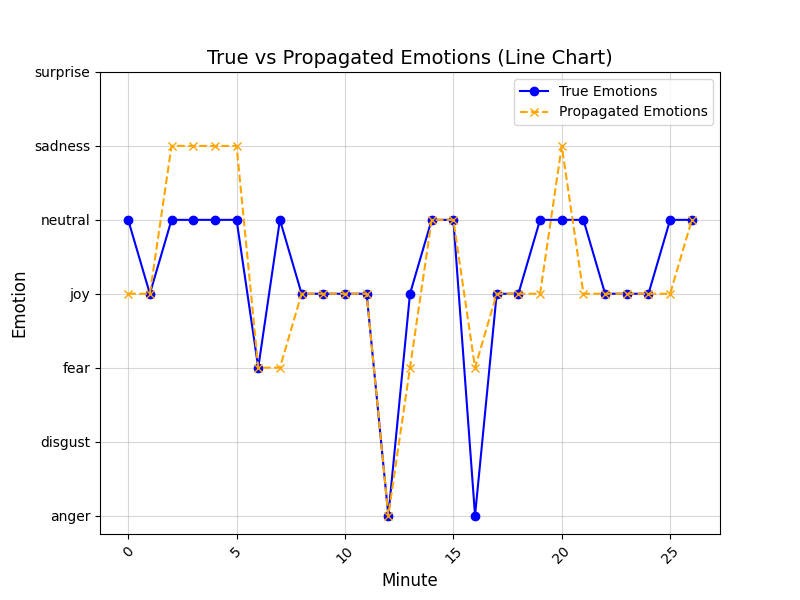
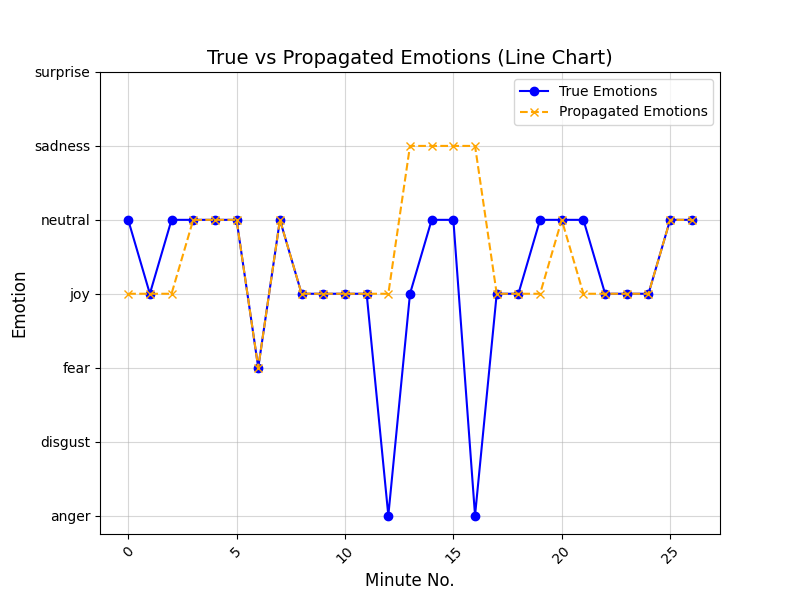
Fixed

diff --git a/propagation.py b/propagation.py
@@ -1,16 +1,20 @@
-from transformers import pipeline
+# from transformers import pipeline
 import os
+import numpy as np
+# import random
+import math
 os.environ['TF_ENABLE_ONEDNN_OPTS'] = '0'
-from transformers import pipeline
-import pickle
+# from transformers import pipeline
+# import pickle
 
 # with open('model.pkl', 'rb') as f:
 #     classifier = pickle.load(f)
-classifier = pipeline("sentiment-analysis", model="michellejieli/emotion_text_classifier")
+# if 
+# classifier = pipeline("sentiment-analysis", model="michellejieli/emotion_text_classifier")
 
 # from math import prod
 
-def predict(x,classifier=classifier):
+def predict(x,classifier=None):
     y_pred = []
     # c = 0
     for i in x:
@@ -24,7 +28,7 @@ def leaky_competing_accumulators(x, model, max_iters=10, decay=0.2, inhibition=0
 
 
     n = len(x)
-    predictions = predict(x)
+    predictions = predict(x,model)
     neutral_penalty = 0.955  # Scale down 'neutral' importance
     accumulators = [{emotion: 0.0 for emotion in emotions} for _ in range(n)]
 
@@ -98,16 +102,14 @@ def loopy_belief_propagation(
     """
     Robust Loopy Belief Propagation for emotion propagation with log-space calculations.
     """
-    import numpy as np
-    import random
-    import math
+
 
     emotions = ['anger', 'disgust', 'fear', 'joy', 'neutral', 'sadness', 'surprise']
 
     num_sentences = len(x_test)
 
     # Step 1: Initialize beliefs from the model
-    initial_predictions = predict(x_test)
+    initial_predictions = predict(x_test,model_predict)
 
 
     beliefs = []
@@ -115,7 +117,7 @@ def loopy_belief_propagation(
         # Use log probabilities to prevent underflow
         belief = {emotion: math.log(0.05) for emotion in emotions}
         belief[pred] = math.log(0.6)  # Higher log probability for predicted emotion
-        # belief['neutral'] = math.log(0.11)
+        belief['neutral'] = math.log(0.11)
 
         # Convert to probability space for final normalization
         beliefs.append({emotion: math.exp(belief[emotion]) for emotion in emotions})
@@ -173,7 +175,7 @@ from nltk.translate.bleu_score import sentence_bleu, SmoothingFunction
 def get_bleu(x, the_model,propagate):
   smoothing_function = SmoothingFunction().method1
 
-  true_vals = predict(x)
+  true_vals = predict(x,the_model)
   print("True vals:", true_vals)
   propagated_vals = propagate(x,the_model)
   print("Propagated vals:", propagated_vals)
@@ -183,7 +185,7 @@ def get_bleu(x, the_model,propagate):
 
 def emotion_drift_score(x, the_model, propagate ,n=3):
 
-    true_emotions = predict(x)
+    true_emotions = predict(x,the_model)
     # true_emotions = [i for i in true_emotions ]
     predicted_emotions = propagate(x ,the_model)
     # predicted_emotions = [i for i in predicted_emotions]

diff --git a/main.py b/main.py
@@ -4,8 +4,15 @@ import preprocess as pre
 import propagation as prop
 import visualization as visual
 # import eval as evaluation
-
+from transformers import pipeline
 # Title of the App
+if __name__ == '__main__':
+    print("This ran: ffffffffffffff")
+    classifier = pipeline("sentiment-analysis", model="michellejieli/emotion_text_classifier")
+    print("This Finished rinningkkkkkkkkkkkkkkkkk")
+
+
+
 st.title("Emotion Propagation in YouTube Transcripts")
 st.sidebar.header("Settings")
 
@@ -30,7 +37,7 @@ if fetch_transcript:
         norm = pre.normalize_text(text)
         st.session_state.final_input = norm.line.values
         st.session_state.transcript_fetched = True
-        st.session_state.original_preds = prop.predict(st.session_state.final_input)
+        st.session_state.original_preds = prop.predict(st.session_state.final_input,classifier)
         st.write("Transcript successfully fetched and preprocessed!")
     except Exception as e:
         st.error(f"Error fetching transcript: {str(e)}")
@@ -50,17 +57,17 @@ if st.session_state.transcript_fetched:
     # Apply Propagation Algorithm
     if algorithm == "Leaky Competing Accumulators":
         st.session_state.propagated_emos = prop.leaky_competing_accumulators(
-            st.session_state.final_input, None, max_iters, decay, inhibition, influence
+            st.session_state.final_input, classifier, max_iters, decay, inhibition, influence
         )
     else:
         st.session_state.propagated_emos = prop.loopy_belief_propagation(
-            st.session_state.final_input, None, window_size, max_iters
+            st.session_state.final_input, classifier, window_size, max_iters
         )
 
     # Evaluate Performance
     st.subheader("Evaluation Metrics")
-    bleu_score = prop.get_bleu(st.session_state.final_input, None, prop.loopy_belief_propagation)
-    drift_score = prop.emotion_drift_score(st.session_state.final_input, None, prop.loopy_belief_propagation)
+    bleu_score = prop.get_bleu(st.session_state.final_input, classifier, prop.loopy_belief_propagation)
+    drift_score = prop.emotion_drift_score(st.session_state.final_input, classifier, prop.loopy_belief_propagation)
 
     st.metric(label="BLEU Score", value=f"{bleu_score:.3f}")
     st.metric(label="Emotion Drift Score", value=f"{drift_score:.3f}")
